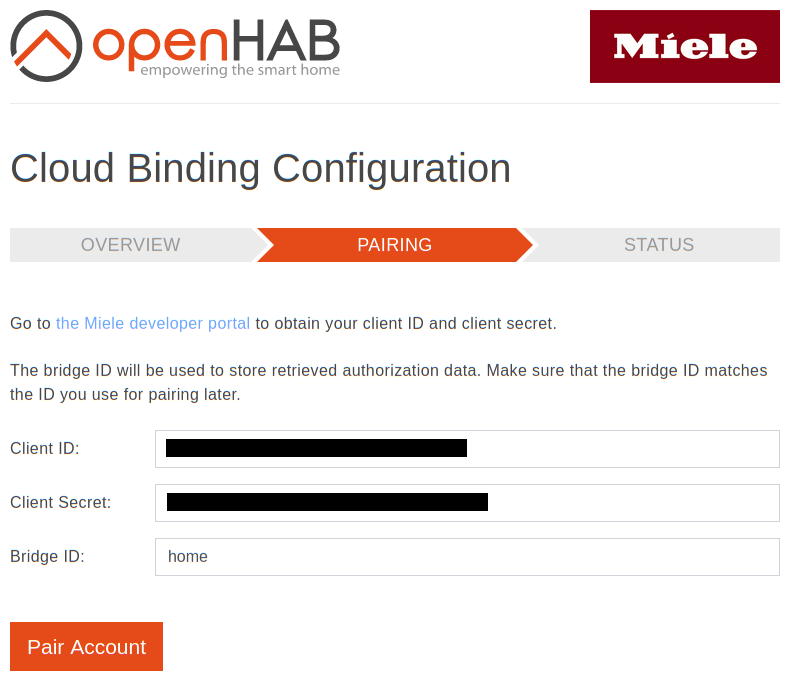
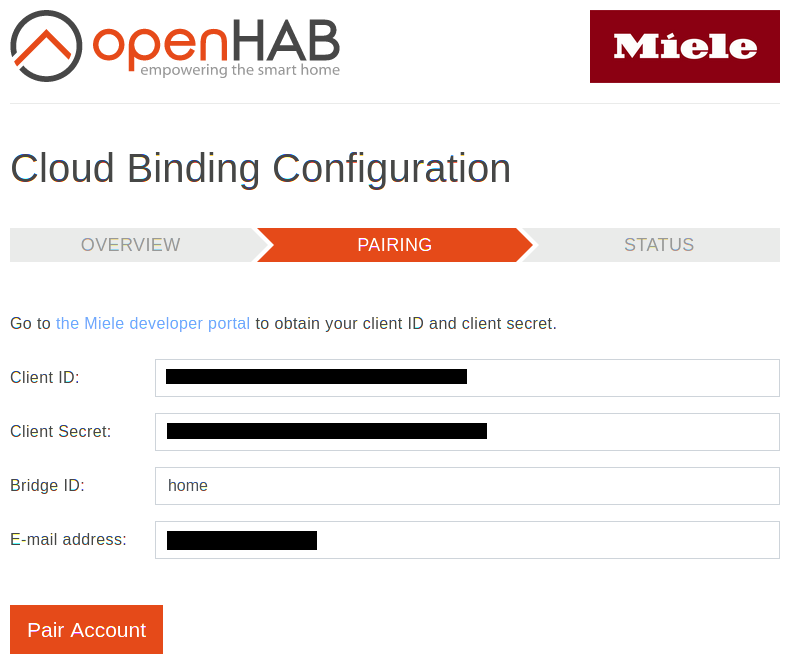
Update documentation for rc.1

diff --git a/Documentation.md b/Documentation.md
@@ -1,7 +1,5 @@
 # Miele Cloud Binding
 
-![Miele](doc/miele.png)
-
 This binding integrates [Miele@home](https://www.miele.de/brand/smarthome-42801.htm) appliances via a cloud connection.
 A Miele cloud account and a set of developer credentials is required to use the binding.
 The latter can be requested from the [Miele Developer Portal](https://www.miele.com/f/com/en/register_api.aspx).
@@ -16,22 +14,24 @@ Appliances from recent generations will support all functionality.
 
 The following types of appliances are supported:
 
-- Coffee Machine
-- Dishwasher
-- Dish Warmer
-- Freezer
-- Fridge
-- Fridge-Freezer Combination
-- Hob
-- Hood
-- Microwave Oven
-- Oven
-- Robotic Vacuum Cleaner
-- Tumble Dryer
-- Washer Dryer
-- Washing Machine
-- Wine Cabinet
-- Wine Cabinet Freezer Combination
+| Appliance type                   | Thing type               |
+| -------------------------------- | ------------------------ |
+| Coffee Machine                   | `coffee_system`          |
+| Dishwasher                       | `dishwasher`             |
+| Dish Warmer                      | `dish_warmer`            |
+| Freezer                          | `freezer`                |
+| Fridge                           | `fridge`                 |
+| Fridge-Freezer Combination       | `fridge_freezer`         |
+| Hob                              | `hob`                    |
+| Hood                             | `hood`                   |
+| Microwave Oven                   | `oven`                   |
+| Oven                             | `oven`                   |
+| Robotic Vacuum Cleaner           | `robotic_vacuum_cleaner` |
+| Tumble Dryer                     | `dryer`                  |
+| Washer Dryer                     | `washer_dryer`           |
+| Washing Machine                  | `washing_machine`        |
+| Wine Cabinet                     | `wine_storage`           |
+| Wine Cabinet Freezer Combination | `wine_storage`           |
 
 ## Discovery
 
@@ -71,36 +71,23 @@ As an alternative, it provides a things-file template.
 
 The account has the following parameters:
 
-| Name        | Type      | Description                                                                                                                                                | Notes                                |
-| ----------- | --------- | ---------------------------------------------------------------------------------------------------------------------------------------------------------- | ------------------------------------ |
-| locale      | mandatory | The locale to use for full text channels of things from this account. Possible values are `en`, `de`, `da`, `es`, `fr`, `it`, `nl`, `nb`. Default is `en`. | Prior to the 7th January 2021 `da`, `es`, `fr`, `it`, `nl` and `nb` will default to English. |
+| Name        | Type      | Description                                                                                                                                                                     |
+| ----------- | --------- | ------------------------------------------------------------------------------------------------------------------------------------------------------------------------------- |
+| email       | required  | E-mail address identifying this account. This exists only to distinguish accounts. If the address is changed after authorization then the account needs to be authorized again. |
+| locale      | optional  | The locale to use for full text channels of things from this account. Possible values are `en`, `de`, `da`, `es`, `fr`, `it`, `nl`, `nb`. Default is `en`.                      |
 
-Example things-file:
-
-```
-Bridge mielecloud:account:home [ locale="en" ]
-```
 
 ### Appliance Configuration
 
 The binding configuration UI will show a things-file template containing things for all supported appliances from the paired account.
 This can be used as a starting point for a custom things-file.
-All Miele cloud appliance things have no configuration parameters.
 
-Example things-file:
+All Miele cloud appliance things have the following parameters:
 
-```
-Bridge mielecloud:account:home [ locale="en" ] {
-    Thing coffee_system 000703261234 "Coffee machine CVA7440" [ ]
-    Thing hob 000160102345 "Cooktop KM7677" [ ]
-    Thing washing_machine 000148503456 "Washing Machine WWV980" [ ]
-    Thing oven 000137434567 "Oven" [ ]
-    Thing fridge 007109235678 "Refrigerator K34483" [ ]
-    Thing dishwasher 000159456789 "Dishwasher G5000" [ ]
-    Thing fridge_freezer 711397890 "Fridge-freezer" [ ]
-    Thing dryer 000091098901 "Dryer" [ ]
-}
-```
+| Name             | Type      | Description                                                                                                                              |
+| ---------------- | --------- | ---------------------------------------------------------------------------------------------------------------------------------------- |
+| deviceIdentifier | required  | Technical device identifier uniquely identifying the Miele appliance. Use the discovery result or the things-file template to obtain it. |
+
 
 ## Channels
 
@@ -451,14 +438,16 @@ Channel ID and channel type ID match unless noted.
 - bottom_temperature_target
 - bottom_temperature_current
 
-### Note on plate_is_present and plate_power_step channels
+### Note on plate_power_step channels
 
-The `plate_x_is_present` channels show whether a plate is present on an appliance.
-The plate numbers do not represent the physical layout of the plates on the appliance, but always start with the `plate_1_is_present` channel.
-This means that a hob with two plates will have `plate_1_is_present` and `plate_2_is_present` active and all other `plate_x_is_present` channels inactive.
+Hob things have an additional property `plateCount` that indicates the number of plates present on the appliance.
+Only the channels `plate_1_power_step` to `plate_x_power_step` will be populated by the binding where `x` is the value of the `plateCount` property.
+
+The plate numbers do not represent the physical layout of the plates on the appliance, but always start with the `plate_1_power_step` channel.
+This means that a hob with two plates will have `plate_1_power_step` and `plate_2_power_step` populated and all other `plate_x_power_step` channels empty.
 
 The `plate_x_power_step` channels show the current power step of the according plate.
-**Please note that different hobs may use dynamic numbering for plates.**
+**Please note that some hobs may use dynamic numbering for plates.**
 Hobs that use dynamic numbering will use the first power step channel that is currently at a power step of zero when the plate is turned on.
 Additionally, when a plate is turned off all other plates with higher numbers will decrease their number by one.
 For example if plate 1, 2 and 3 are active and plate 1 is turned off then plate 2 will become plate 1, plate 3 will become plate 2 and plate 3 will have a power step of zero.
@@ -505,9 +494,9 @@ The following chapters list the properties offered by appliances.
 ### demo.things:
 
 ```
-Bridge mielecloud:account:home [ locale="en" ] {
-    Thing coffee_system 000703261234 "Coffee machine CVA7440" [ ]
-    Thing hob 000160102345 "Cooktop KM7677" [ ]
+Bridge mielecloud:account:home [ email="me@openhab.org", locale="en" ] {
+    Thing coffee_system 000703261234 "Coffee machine CVA7440" [ deviceIdentifier="000703261234" ]
+    Thing hob 000160102345 "Cooktop KM7677" [ deviceIdentifier="000160102345" ]
 }
 ```
 
@@ -594,10 +583,10 @@ We strongly recommend to use a secure connection for pairing, details on this to
 Click `Pair Account` to start the pairing process.
 If not already done, go to the [Miele Developer Portal](https://www.miele.com/f/com/en/register_api.aspx), register there and wait for the confirmation e-mail.
 Obtain your client ID and client secret according to the instructions presented there.
-Once you obtained your client ID and client secret continue pairing by filling in your client ID, client secret and bridge ID.
+Once you obtained your client ID and client secret continue pairing by filling in your client ID, client secret, bridge ID and an e-mail address that you wish to use for identifying the account.
 You may choose any bridge ID you like as long as you only use letters, numbers, underscores and dashes.
-The bridge ID entered here will become part of the thing UID of the paired account and cannot be changed later.
-If you want to change the bridge ID you will need to remove the bridge and pair it again with the new bridge ID.
+The e-mail address does not need to match the e-mail address used for your Miele Cloud Account.
+If you need to change the e-mail address later then you will need to authorize the account again.
 
 ![Pair Account](doc/pair-account.png)
 
@@ -609,11 +598,8 @@ When this is the first time you pair an account, you will need to allow openHAB 
 
 When everything worked, you are presented with a page stating that pairing was successful.
 Select the locale which should be used to display localized texts in openHAB channels.
-Note that there is currently an issue with the endpoint of the Miele cloud service which is used by the binding that prevents the locale setting from functioning correctly.
-This will be fixed in the future.
 From here, you have two options:
-Either let the binding automatically configure a bridge instance or copy the presented things-file template to a things file and return to the overview page.
-We recommend the former for reasons outlined under [Account Configuration](#account-configuration).
+Either let the binding automatically configure a bridge instance or copy the presented things-file template to a things-file and return to the overview page.
 
 ![Pairing Successful](doc/pairing-success.png)
 
